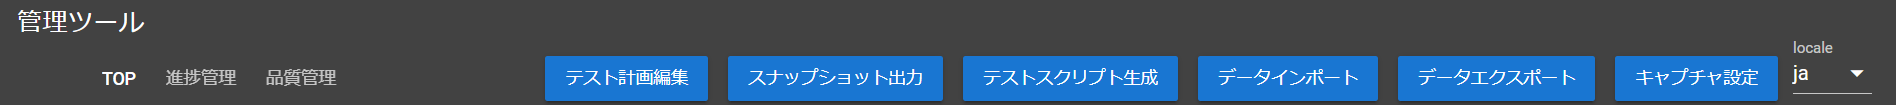
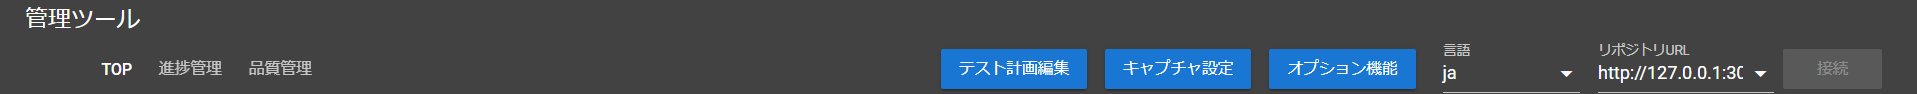
modify capture manual

diff --git a/docs/manual/capture/manual-capture.md b/docs/manual/capture/manual-capture.md
@@ -14,7 +14,9 @@
   - [スクリプト生成ボタン](#スクリプト生成ボタン)
   - [データエクスポートボタン](#データエクスポートボタン)
   - [履歴再生開始/中止ボタン](#履歴再生開始中止ボタン)
-  - [locale](#locale)
+  - [言語](#言語)
+  - [リポジトリ URL](#リポジトリ-url-入力欄)
+  - [接続ボタン](#接続ボタン)
 - [フッター](#フッター)
   - [ブラウザバック・フォワードボタン](#ブラウザバックフォワードボタン)
   - [タブ・ウィンドウ切り替えボタン](#タブウィンドウ切り替えボタン)
@@ -37,7 +39,7 @@
 
 <img src="./images/header.png"/>
 
-テストの開始や終了、既存のテスト結果の読み込み、記録した操作のリプレイなどを行うことができます。
+テストの開始や終了、過去のテスト結果の読み込み、記録した操作のリプレイなどを行うことができます。
 
 ## URL 入力欄
 
@@ -61,11 +63,14 @@
 
 :bulb: アドホックテスト等、特にテスト目的を決めずにテストを進めたい場合はチェックボックスを OFF にして始めることもできます。
 
+:bulb: リモート接続中の場合は、テスト終了時にテスト結果をリモート接続先にアップロードすることができます。
+
 <img src="./images/start-testing.png" width="400px" />
 
 ダイアログの「OK」ボタンを押下するとブラウザが立ち上がり、「URL 入力欄」で入力された URL のページを表示し、記録が開始されます。
 
-:bulb: 操作内容は`latteart-repository/public/test-results/`配下のディレクトリに保存されます。
+:bulb: 操作内容は`latteart-repository/`配下の`latteart.sqlite`に保存されます。  
+:bulb: バージョン 1.7.5 以前の LatteArt の場合は`latteart-repository/public/test-results/`配下のディレクトリに保存されます。
 
 :warning: LatteArt での記録中に画面遷移等で新しいページを開く際、ページが読み込まれる前に操作をすると LatteArt が正しく記録できない場合があります。完全にページがロードされてから操作するようにしてください。
 
@@ -147,7 +152,7 @@
 押下するとブラウザが立ち上がり、操作のタイミング含め、記録された操作がそのまま自動的に繰り返されます。
 再生開始後に再度押下するとブラウザが閉じ、再生が中止されます。
 
-## locale
+## 言語
 
 <img src="./images/locale.png"/>
 
@@ -155,6 +160,20 @@
 
 - ja（日本語）
 - en（英語）
+
+## リポジトリ URL 入力欄
+
+<img src="./images/repository-url.png"/>
+
+リポジトリ URL を入力する欄です。  
+プルダウンを開くと過去に接続したリポジトリ URL が選択候補として表示されます。
+
+## 接続ボタン
+
+<img src="./images/connect.png"/>
+
+リポジトリ URL に記載された URL に接続することができます。  
+リポジトリ URL 入力欄に URL を入力すると接続ボタンが押下可能となります。
 
 # フッター
 

diff --git a/docs/manual/management/manual-management.md b/docs/manual/management/manual-management.md
@@ -52,7 +52,19 @@
 
 押下すると「[テスト計画編集画面](#テスト計画編集画面)」を表示します。
 
-### スナップショット出力ボタン
+### キャプチャ設定ボタン
+
+<img src="images/config-button.png" />
+
+押下すると「[設定画面](#設定画面)」を表示します。
+
+### オプション機能ボタン
+
+<img src="images/option-button.png" />
+
+押下するとオプション機能の一覧を表示します。
+
+#### スナップショット出力ボタン
 
 <img src="images/snapshot-button.png" />
 
@@ -131,12 +143,6 @@ OK ボタンを押下し、データがエクスポートされます。
         ├ スクリーンショット
         └ テスト結果情報(log.json)
 ```
-
-### キャプチャ設定ボタン
-
-<img src="images/config-button.png" />
-
-押下すると「[設定画面](#設定画面)」を表示します。
 
 ### locale
 
